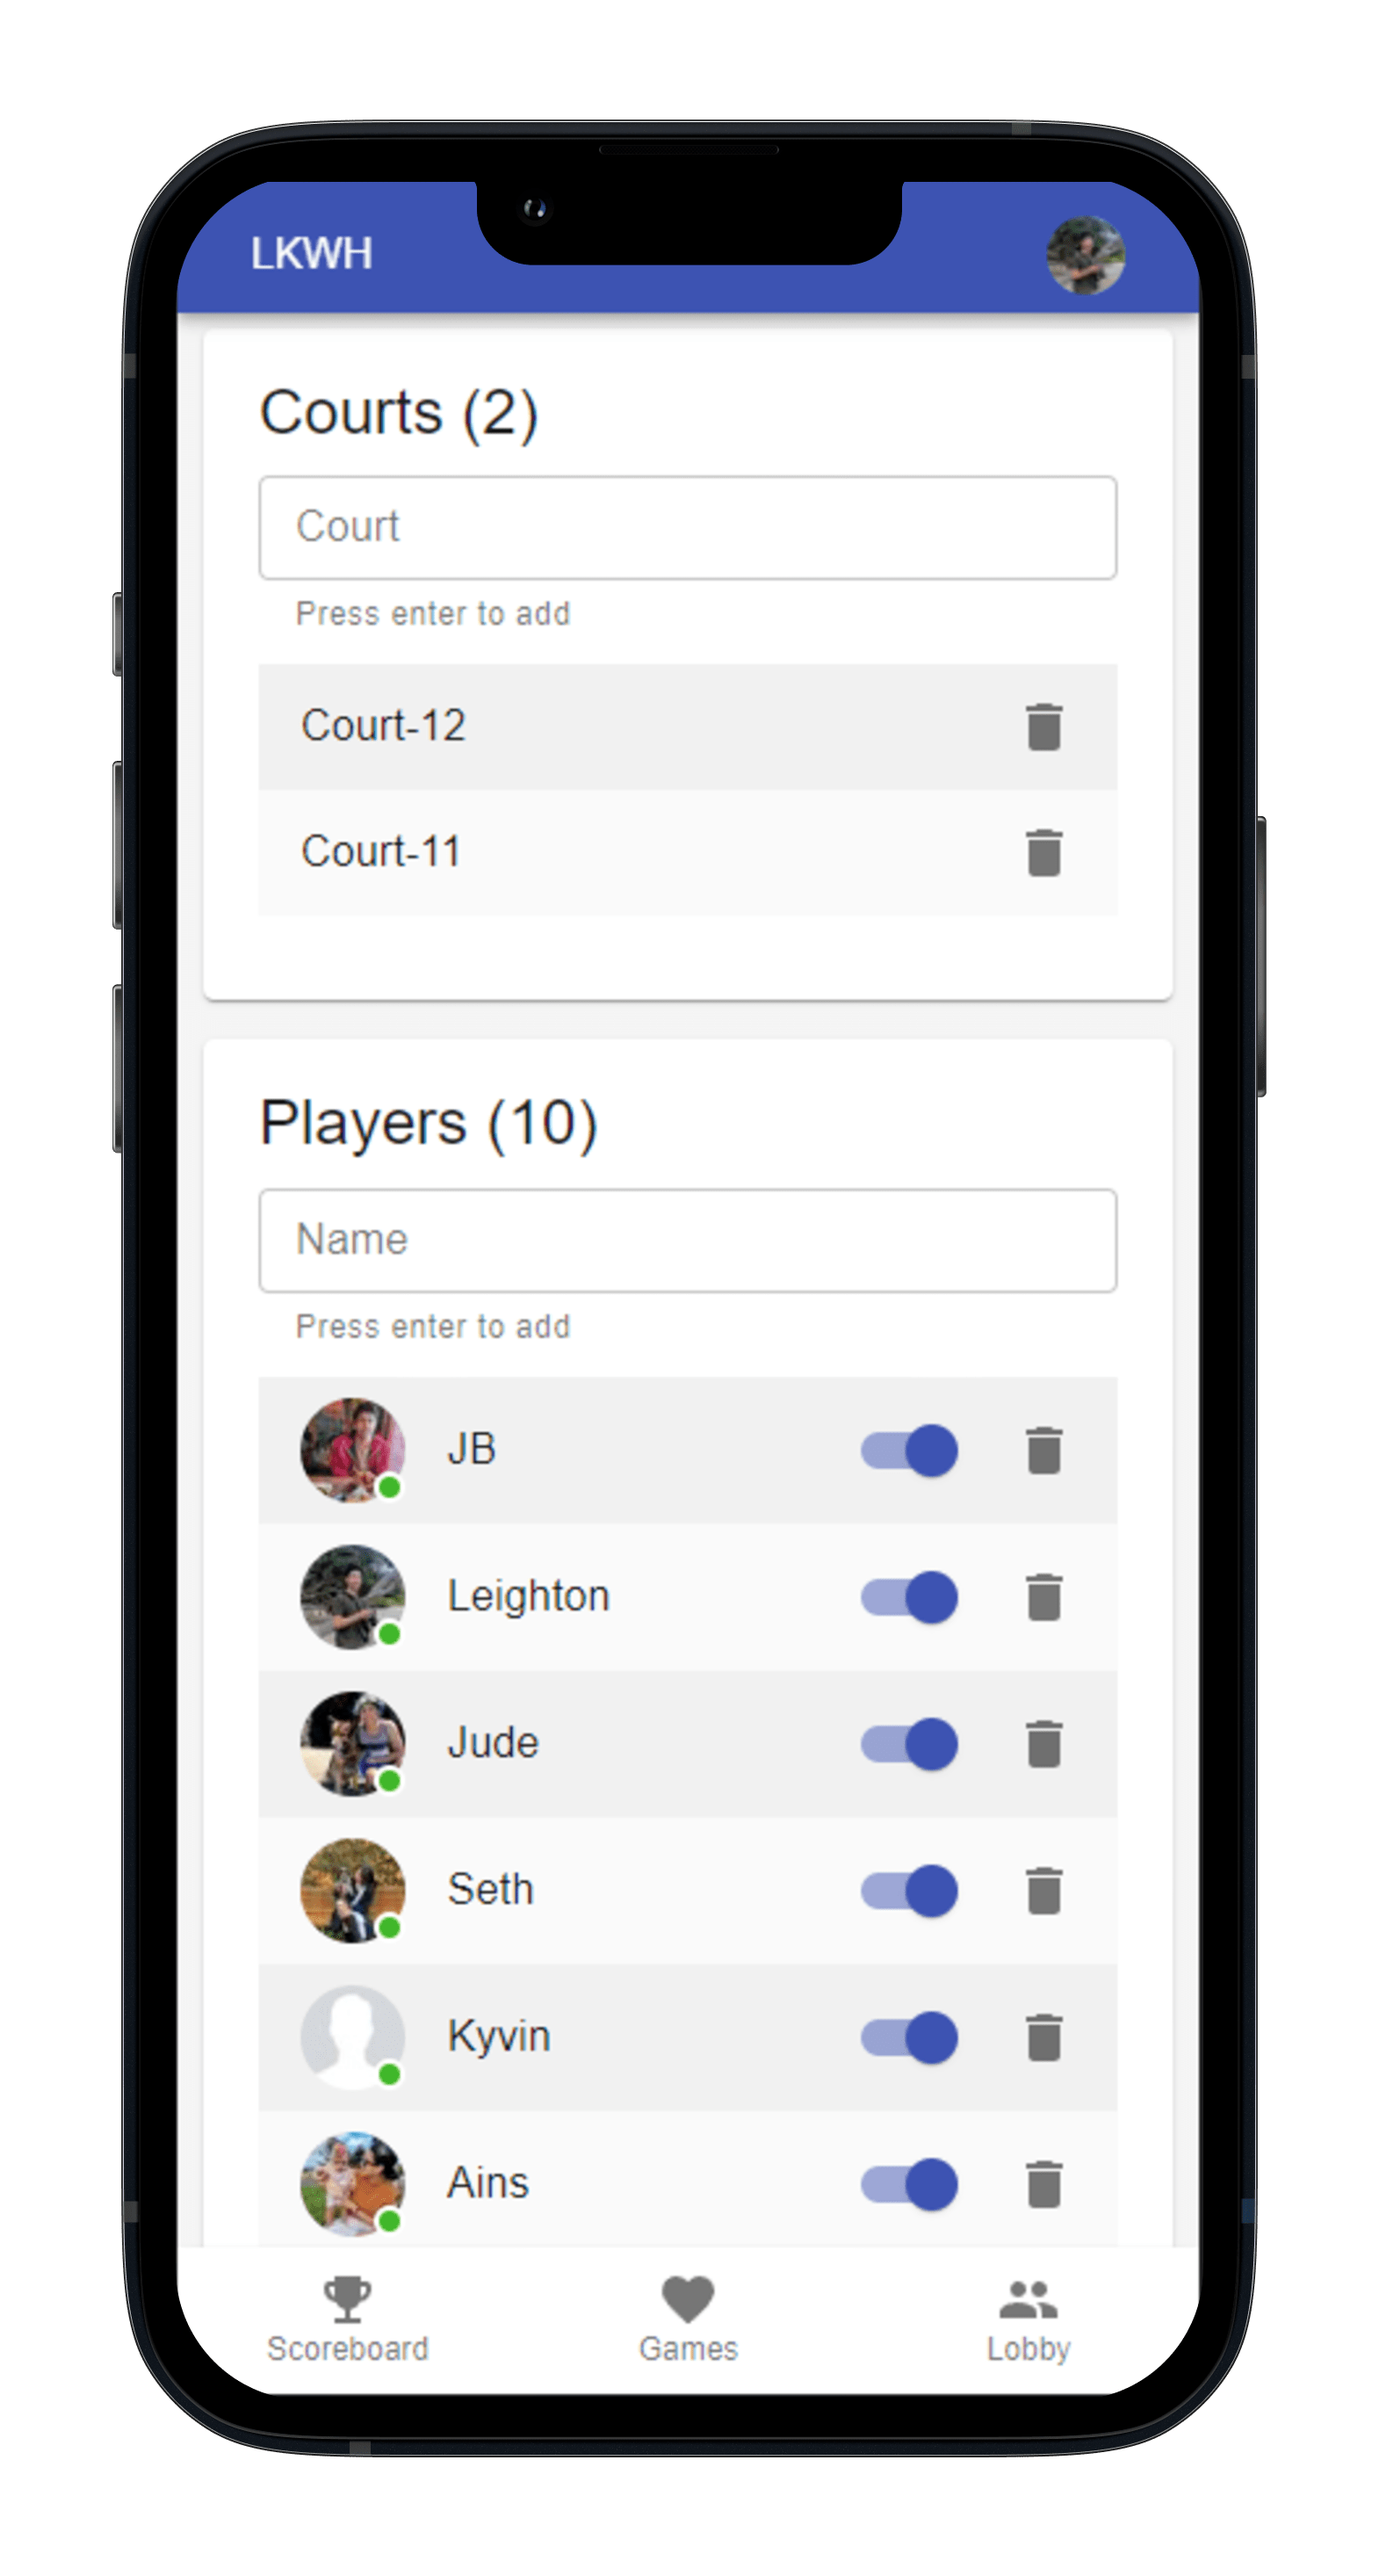
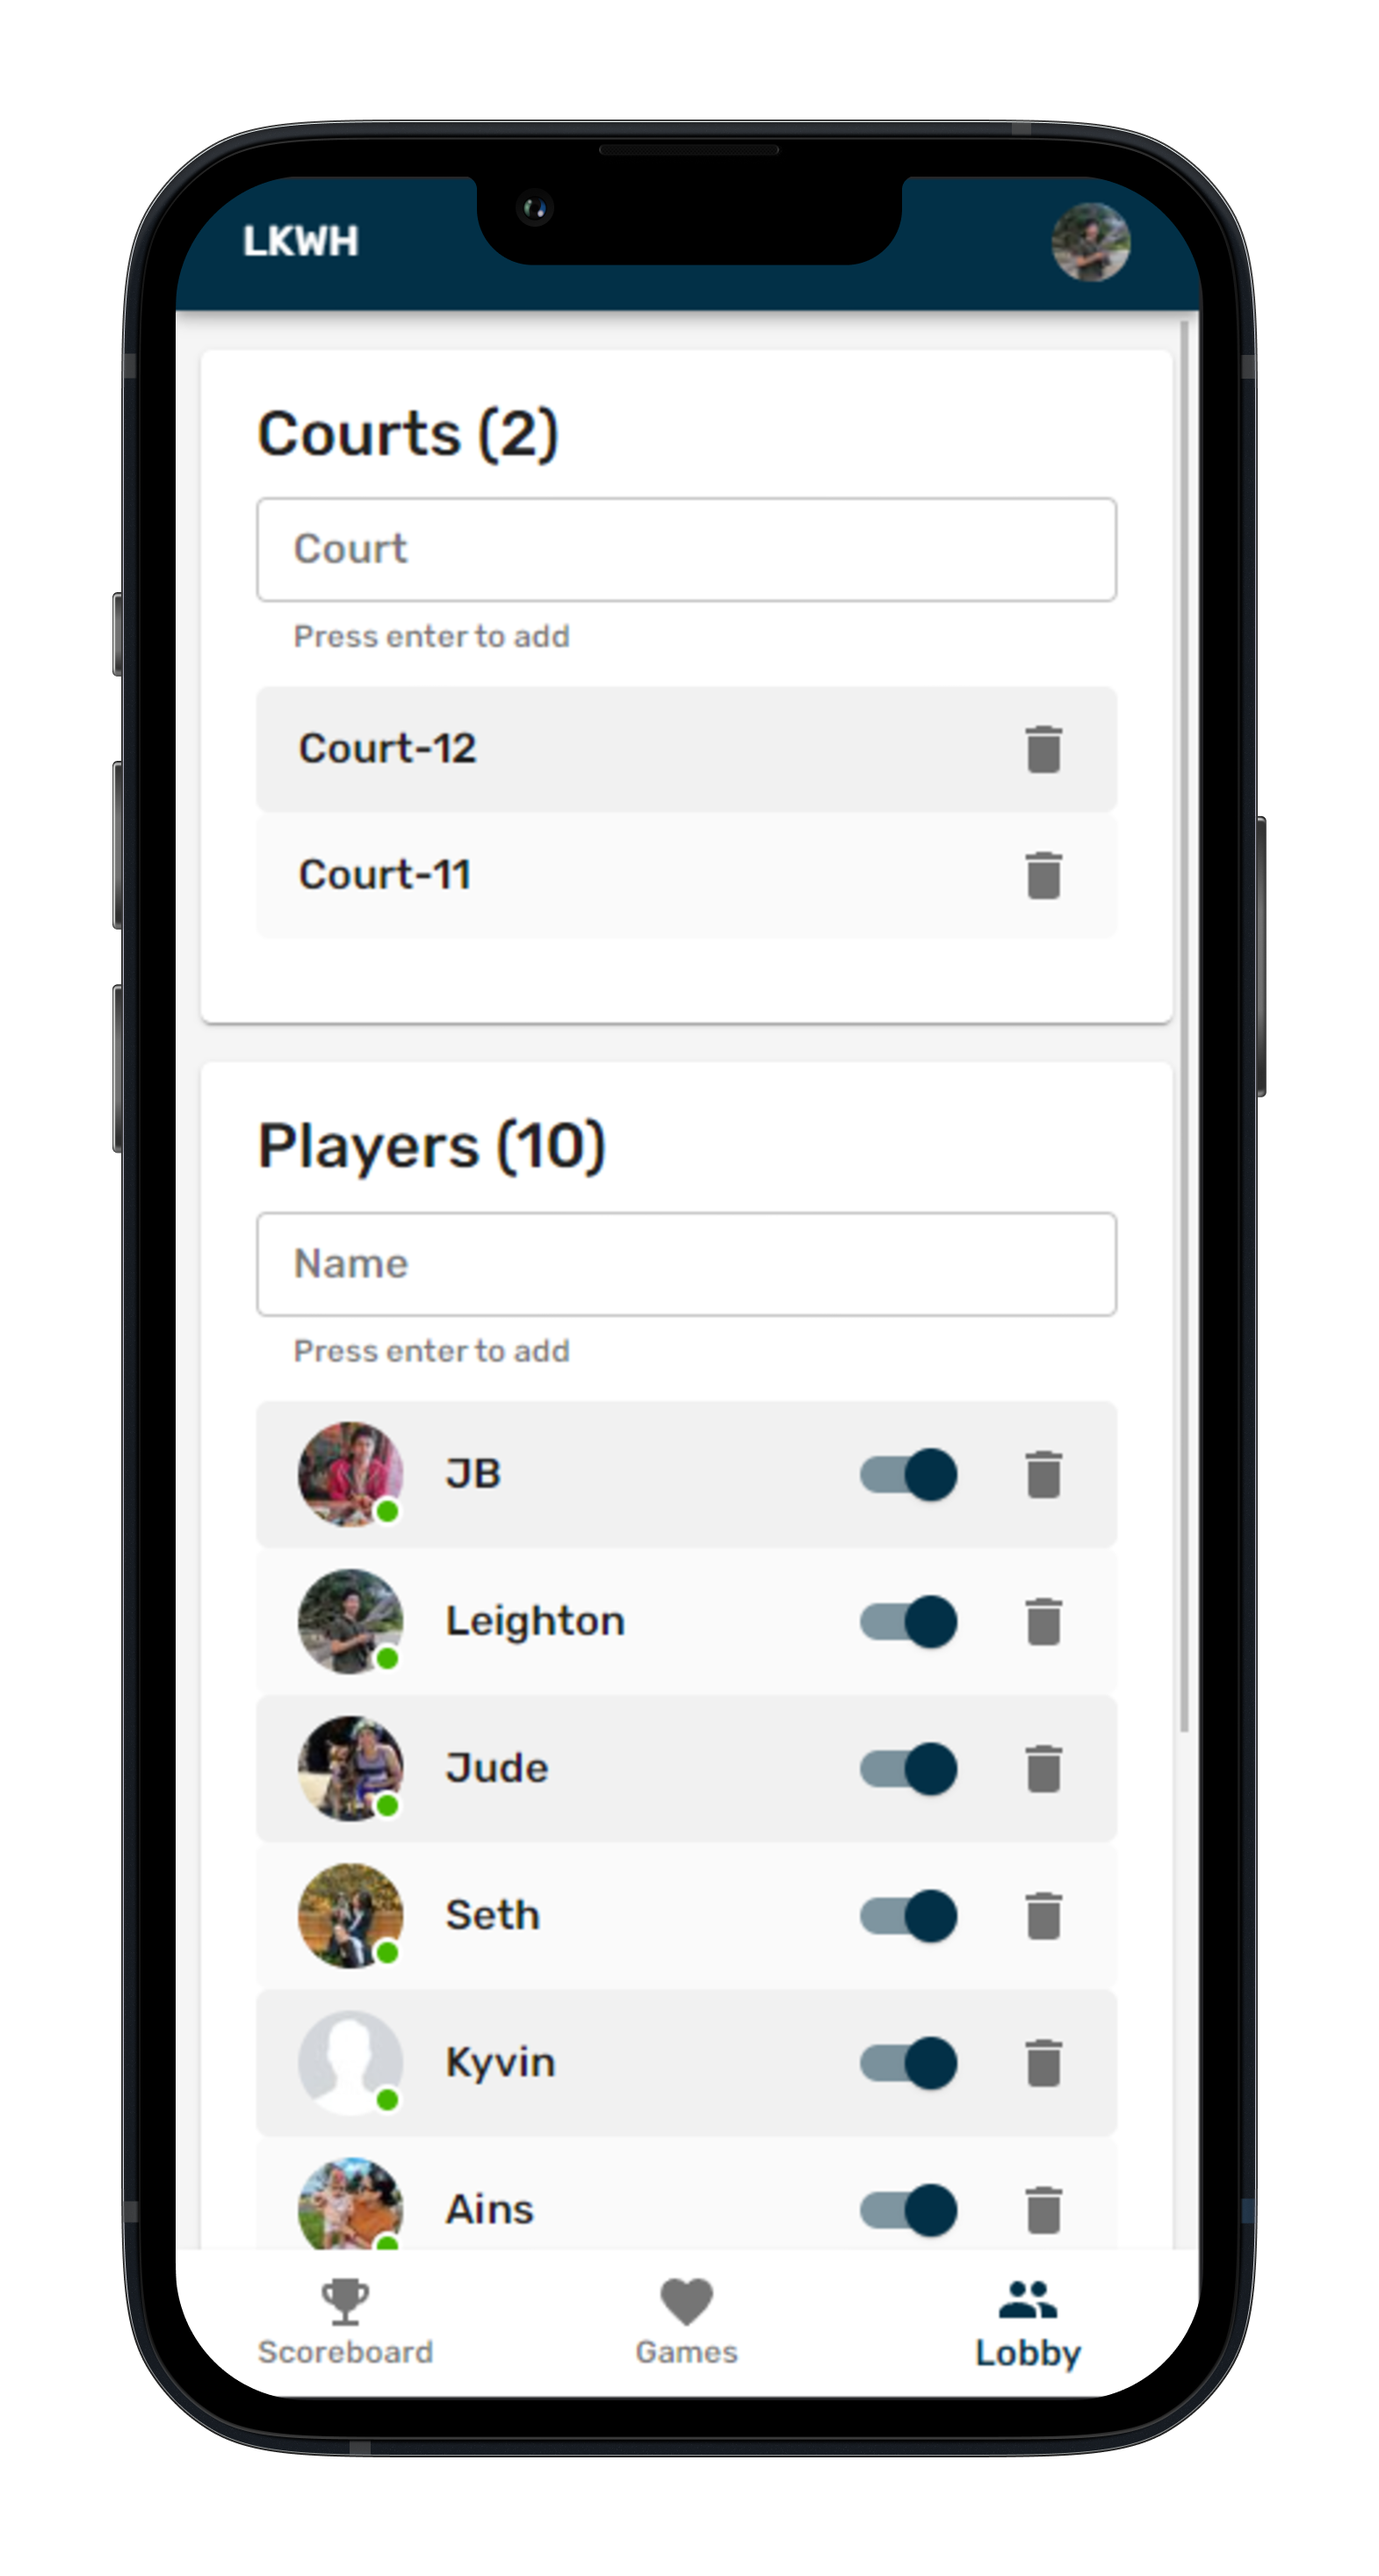
Update screenshots on the website.

diff --git a/app/src/components/Home.tsx b/app/src/components/Home.tsx
@@ -68,75 +68,75 @@ const Home = () => {
 				<Toolbar>
 					{
 						isMobile
-							? <Box
+						? <Box
+							style={{
+								display: "flex",
+								flexDirection: "row",
+								alignItems: "center",
+								justifyContent: "space-between",
+								width: "100%",
+								marginBottom: "8px"
+							}}
+						>
+							<Typography style={{ marginLeft: "10px" }}>{sessionId}</Typography>
+							<IconButton
+								color="inherit"
+								onClick={() => { dispatch(setNavigation("profile")); }}
 								style={{
-									display: "flex",
-									flexDirection: "row",
-									alignItems: "center",
-									justifyContent: "space-between",
-									width: "100%",
-									marginBottom: "8px"
+									paddingRight: "10px"
 								}}
 							>
-								<Typography style={{ marginLeft: "5px" }}>{sessionId}</Typography>
-								<IconButton
-									color="inherit"
-									onClick={() => { dispatch(setNavigation("profile")); }}
+								<PlayerAvatar
+									id={userId}
+									src={user.avatarUrl}
 									style={{
-										paddingRight: "0px"
+										height: "30px",
+										width: "30px"
 									}}
+								/>
+							</IconButton>
+						</Box>
+						: <>
+							<Typography 
+								variant="h5" 
+								onClick={() => { window.open("https://crosscourt.net/", "_blank"); }} 
+								noWrap 
+								style={{
+									cursor: "pointer"
+								}}
+							>
+								Cross Court
+							</Typography>
+							<Box style={{
+								display: "flex",
+								justifyContent: "flex-end",
+								flexGrow: 1
+							}}>
+								{
+									joinedSession && rounds.length > 0
+										? <>
+											<IconButton color="inherit" onClick={(() => { handleNavigation("/games"); })}>
+												<Typography>Games</Typography>
+											</IconButton>
+											<IconButton color="inherit" onClick={(() => { handleNavigation("/scoreboard"); })}>
+												<Typography>Scoreboard</Typography>
+											</IconButton>
+										</>
+										: ""
+								}
+								<IconButton color="inherit" onClick={(() => { handleNavigation("/lobby"); })}>
+									<Typography>Lobby</Typography>
+								</IconButton>
+								<IconButton
+									onClick={() => { dispatch(setNavigation("profile")); }}
 								>
 									<PlayerAvatar
 										id={userId}
 										src={user.avatarUrl}
-										style={{
-											height: "30px",
-											width: "30px"
-										}}
 									/>
 								</IconButton>
 							</Box>
-							: <>
-								<Typography 
-									variant="h5" 
-									onClick={() => { window.open("https://crosscourt.net/", "_blank"); }} 
-									noWrap 
-									style={{
-										cursor: "pointer"
-									}}
-								>
-									Cross Court
-								</Typography>
-								<Box style={{
-									display: "flex",
-									justifyContent: "flex-end",
-									flexGrow: 1
-								}}>
-									{
-										joinedSession && rounds.length > 0
-											? <>
-												<IconButton color="inherit" onClick={(() => { handleNavigation("/games"); })}>
-													<Typography>Games</Typography>
-												</IconButton>
-												<IconButton color="inherit" onClick={(() => { handleNavigation("/scoreboard"); })}>
-													<Typography>Scoreboard</Typography>
-												</IconButton>
-											</>
-											: ""
-									}
-									<IconButton color="inherit" onClick={(() => { handleNavigation("/lobby"); })}>
-										<Typography>Lobby</Typography>
-									</IconButton>
-									<IconButton
-										onClick={() => { dispatch(setNavigation("profile")); }}
-									>
-										<PlayerAvatar
-											id={userId}
-											src={user.avatarUrl}
-										/>
-									</IconButton>
-								</Box>
-							</>
+						</>
 					}
 				</Toolbar>
 			</AppBar>

diff --git a/website/src/App.tsx b/website/src/App.tsx
@@ -118,7 +118,7 @@ function App() {
 				</Box>
 
 				<Box style={{
-					paddingBottom: "20px"
+					backgroundColor: "#f8f9f9"
 				}}>
 					<Carousel
 						autoPlay={true}
@@ -162,7 +162,7 @@ function App() {
 						<ContentItem 
 							title="Session history"
 							imageDescription="Match history screen"
-							imageFilename="match_history_iphone.png" 
+							imageFilename="session_history_iphone.png" 
 							body={[
 								"Scroll through your match history to track your progress.",
 								"Records are expandable to see the final scoreboard of the session.",

diff --git a/app/src/features/lobby/Lobby.tsx b/app/src/features/lobby/Lobby.tsx
@@ -16,7 +16,7 @@ const Lobby = () => {
     const dispatch = useDispatch();
     const { userId, sessionId, isHost, isGuest, isLoading, joinedSession, isSessionActive } = useSelector((state: RootState) => state.general);
     const { error } = useSelector((state: RootState) => state.lobby);
-    const [sessionCode, setSessionCode] = useState("");
+    const [sessionCode, setSessionCode] = useState(sessionId);
 	const history = useHistory();
 
     useEffect(() => {

diff --git a/website/src/components/ContentItem.tsx b/website/src/components/ContentItem.tsx
@@ -11,7 +11,7 @@ interface Props {
 const ContentItem: React.FC<Props> = ({ title, imageDescription, imageFilename, body }) => {
     return (
         <Box style={{
-            padding: "0 20px 20px 20px",
+            padding: "0 20px 30px 20px",
             display: "flex",
             flexDirection: "row",
             flexWrap: "wrap",
